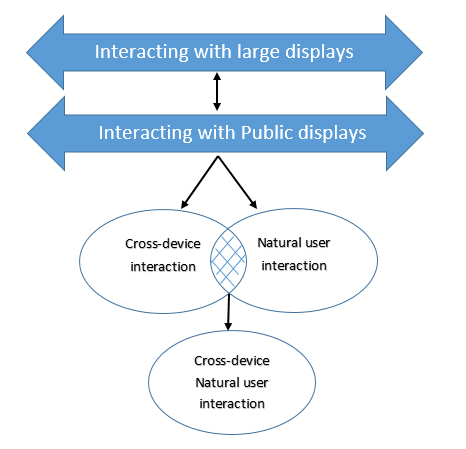
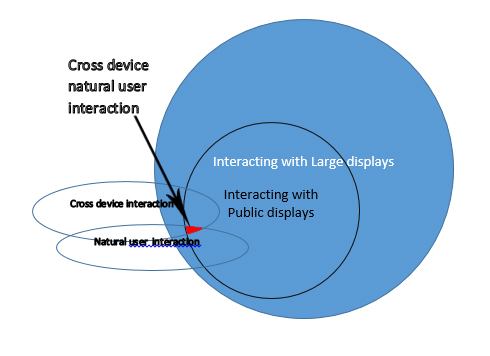
fixed and expanded cdinui, expanded the discussion, change the name of the file, added my favorite figure.

diff --git a/review/docs/cdinui.tex b/review/docs/cdinui.tex
@@ -1,16 +1,15 @@
 % !TEX root = ../literature.tex
 \subsection{Cross-Device Interaction Natural User Interface}
 Infusing the two fields could offer new concepts and potential ideas, as such an inquiry of the current literature would be beneficial. 
-Marquardt wants {\em``to create techniques that allow people to seamlessly and naturally connect to and interact with the increasing number of digital devices.''} \cite{Marquardt:2011}. 
-In order to achieve that, it is proposed to use spatial information - proxemics {\em``[...] to mediate people's interactions with digital devices, such as large digital surfaces or portable personal devices.''} \cite{Marquardt:2011}.
+An illustrative example, on transitioning from one to another area, would be Greenberg et al. work \cite{Greenberg:2011} who expand on a concept from Psychology, which states that different distance between people can explain their relation, by adapting it for use in HCI, they do so by concerning distance, not only between people, but between all objects such as people, electronic devices and analogue objects. Their main contribution is in defining five proxemic dimensions: \emph{Distance, Orientation, Movement, Identity} and \emph{Location}. This dimensions can be used to help devices, in a system ecology , to recognize their current context, distance to other people or devices, and can help creating interconnectivity between entities. 
 
-Marquardt et. al. later expand this idea by increasing the number of dimensions, he then creates: \\
+Marquardt work, that proposes to use spatial information - proxemics {\em``[...] to mediate people's interactions with digital devices, such as large digital surfaces or portable personal devices.''} \cite{Marquardt:2011}, gives an illustration of the use within cross-device. He presents design of development tools for programmers creating proxemic-aware systems, his aim is {\em``to create techniques that allow people to seamlessly and naturally connect to and interact with the increasing number of digital devices.''} \cite{Marquardt:2011}. 
 
-{\em``[...]a system that explores cross-device interaction using two sociological constructs. First, F-formations concern the distance and relative body orientation among multiple users, which indicate when and how people position themselves as a group. Second, micro-mobility describes how people orient and tilt devices towards one another to promote fine-grained sharing during co-present collaboration.''} \cite{Marquardt:2012}.\\
+
+Marquardt et. al. later expand this idea by increasing the number of dimensions i.e. he augments proxemic principles with theories of F-formation and micro-mobility, his creation is a system that uses combination of Kinect sensors and accelerometer data, which was combined to determine the locations and orientation of users in an instrumented environment . This information was used to facilitate a number of real-time interactions between user devices, as the author writes {\em``[...]a system that explores cross-device interaction using two sociological constructs. First, F-formations concern the distance and relative body orientation among multiple users, which indicate when and how people position themselves as a group. Second, micro-mobility describes how people orient and tilt devices towards one another to promote fine-grained sharing during co-present collaboration.''} \cite{Marquardt:2012}. Combining these two aspects, new techniques of cross-device interaction with emphasis on fluid and smooth communication can be designed argues the author. For instance, tilting a device by a small angle may trigger an information sharing process with other devices within proximity\\ 
+
 
 Proxemics is one of the ways to create cross-device natural user interaction.
-Seifert et al. propose the use of touch, they state that {\em``[...] it is envisioned that the tables in our domestic environments will turn into interactive surfaces once the price per square meter is in the region of a few hundred Euro.''} \cite{Seifert:2012}. 
-Therefore, having touch capabilities on both input and output device will support co-located cross-device collaboration.
-Bragdon et al. propose using a combination of air gestures and touch. 
+Bragdon et al. propose using a system that combines touch + air gesture hybrid interactions.
 They aim to design, implement and test a system that allows a group of users to interact using air gestures and touch gestures. 
-The purpose is to increase control, support democratic access, and share items across multiple personal devices such as smartphones and laptops where the {\em``primary design goal is fluid, democratic sharing of content on a common display.''} \cite{Bragton:2011}.
+The purpose is to increase control, support democratic access, and share items across multiple personal devices such as smartphones and laptops where the {\em``primary design goal is fluid, democratic sharing of content on a common display.''} \cite{Bragton:2011}. This method enables access, control and sharing of information through several different devices such as multi-touch screen, mobile touch devices, and Microsoft Kinect sensors. In a formative study, professional developers were positive about the interaction design, and most felt that pointing with hands or devices and forming hand postures are socially acceptable. 

diff --git a/review/docs/discussion.tex b/review/docs/discussion.tex
@@ -1,3 +1,28 @@
-\section{Discussion}\label{Sec:Discussion}
-libum larum detoritidididadadad lalalamothumsto o nagasaki witsjomudanagu omahaski \\
-This is a test cite \cite{Walter:2014}, this should refference Walter 2014
+% !TEX root = ../literature.tex
+\subsection{Discussion}
+%this section needs to be called discussion, and you need to use it to discuss a bit more about the relationships between the different fields, concluding with the idea that some sharing of information across these areas to futher research various aspects would be a good idea. So you are on the right track - but you need to be a bit more detailed in your thinking
+
+The current paper aims to analytically summarize published research within e preset interest area. In the current section we would expand on the relationships between presented different fields, we believe this will further deepen our understanding of them.\\
+%The findings of this work are that gesture recogntion using touchscreens is now a mature enough technology that it is ready for implementation in commerical products. The iPhone has shown that basic gesturing has a place in mobile operating systems and my results show that more complex gestures can be easily recognised and recognised accurately. The problem is context.
+Many researchers had spent time and effort to explore how large displays aid in improving people's experiences. 
+With the shift from private to public settings the explored solutions changed. 
+It was highly impractical to put wires on people who wanted to use an installation naturally in a public environment [9].\\
+
+With this limitation came different approaches for solving it. 
+We identified two different areas which deals with it, we present them in \Cref{fig:litreview}.
+
+\begin{figure}[h!]
+\centering
+\epsfig{file=images/litreview-fig1.jpg, width=0.5\textwidth}
+\caption{Write Caption}
+\label{fig:litreview}
+\end{figure}
+
+The fields of natural user interactions and cross-device interactions were thoroughly examined. 
+We were surprised to see that research in combining features from the two areas is slim even though they are complementary to each other. 
+There was research that was done [26, 27, 28, 29]. 
+Interaction-techniques were evaluated with 3-6 people using qualitative surveys in [27,28,29] and without qualitative surveys in [26].\\
+
+In summary, we can see research opportunities in further exploration of cross-device natural user interactions technique for large displays. We believe the limitations that each of these fields ignore is the interaction space between them. To move beyond this limitation, we believe a unification of these discrete interaction techniques in continuous interaction space and it's further research would be positive and beneficial.
+Firstly, as handheld devices become thinner and lighter and spatially-aware technologies, such as Kinect, continue to evolve, this opens a potentially rich space of aforementioned techniques. 
+Secondly, we see opportunities in quantitative aspect, for example comparative study of different interaction techniques. 

diff --git a/review/docs/stateofart.tex b/review/docs/stateofart.tex
@@ -44,4 +44,4 @@ Cross-device natural user interactions      & \cite{Marquardt:2011} \cite{Marqua
 \input{docs/nui}
 \input{docs/cdi}
 \input{docs/cdinui}
-\input{docs/summary}
+\input{docs/discussion}
